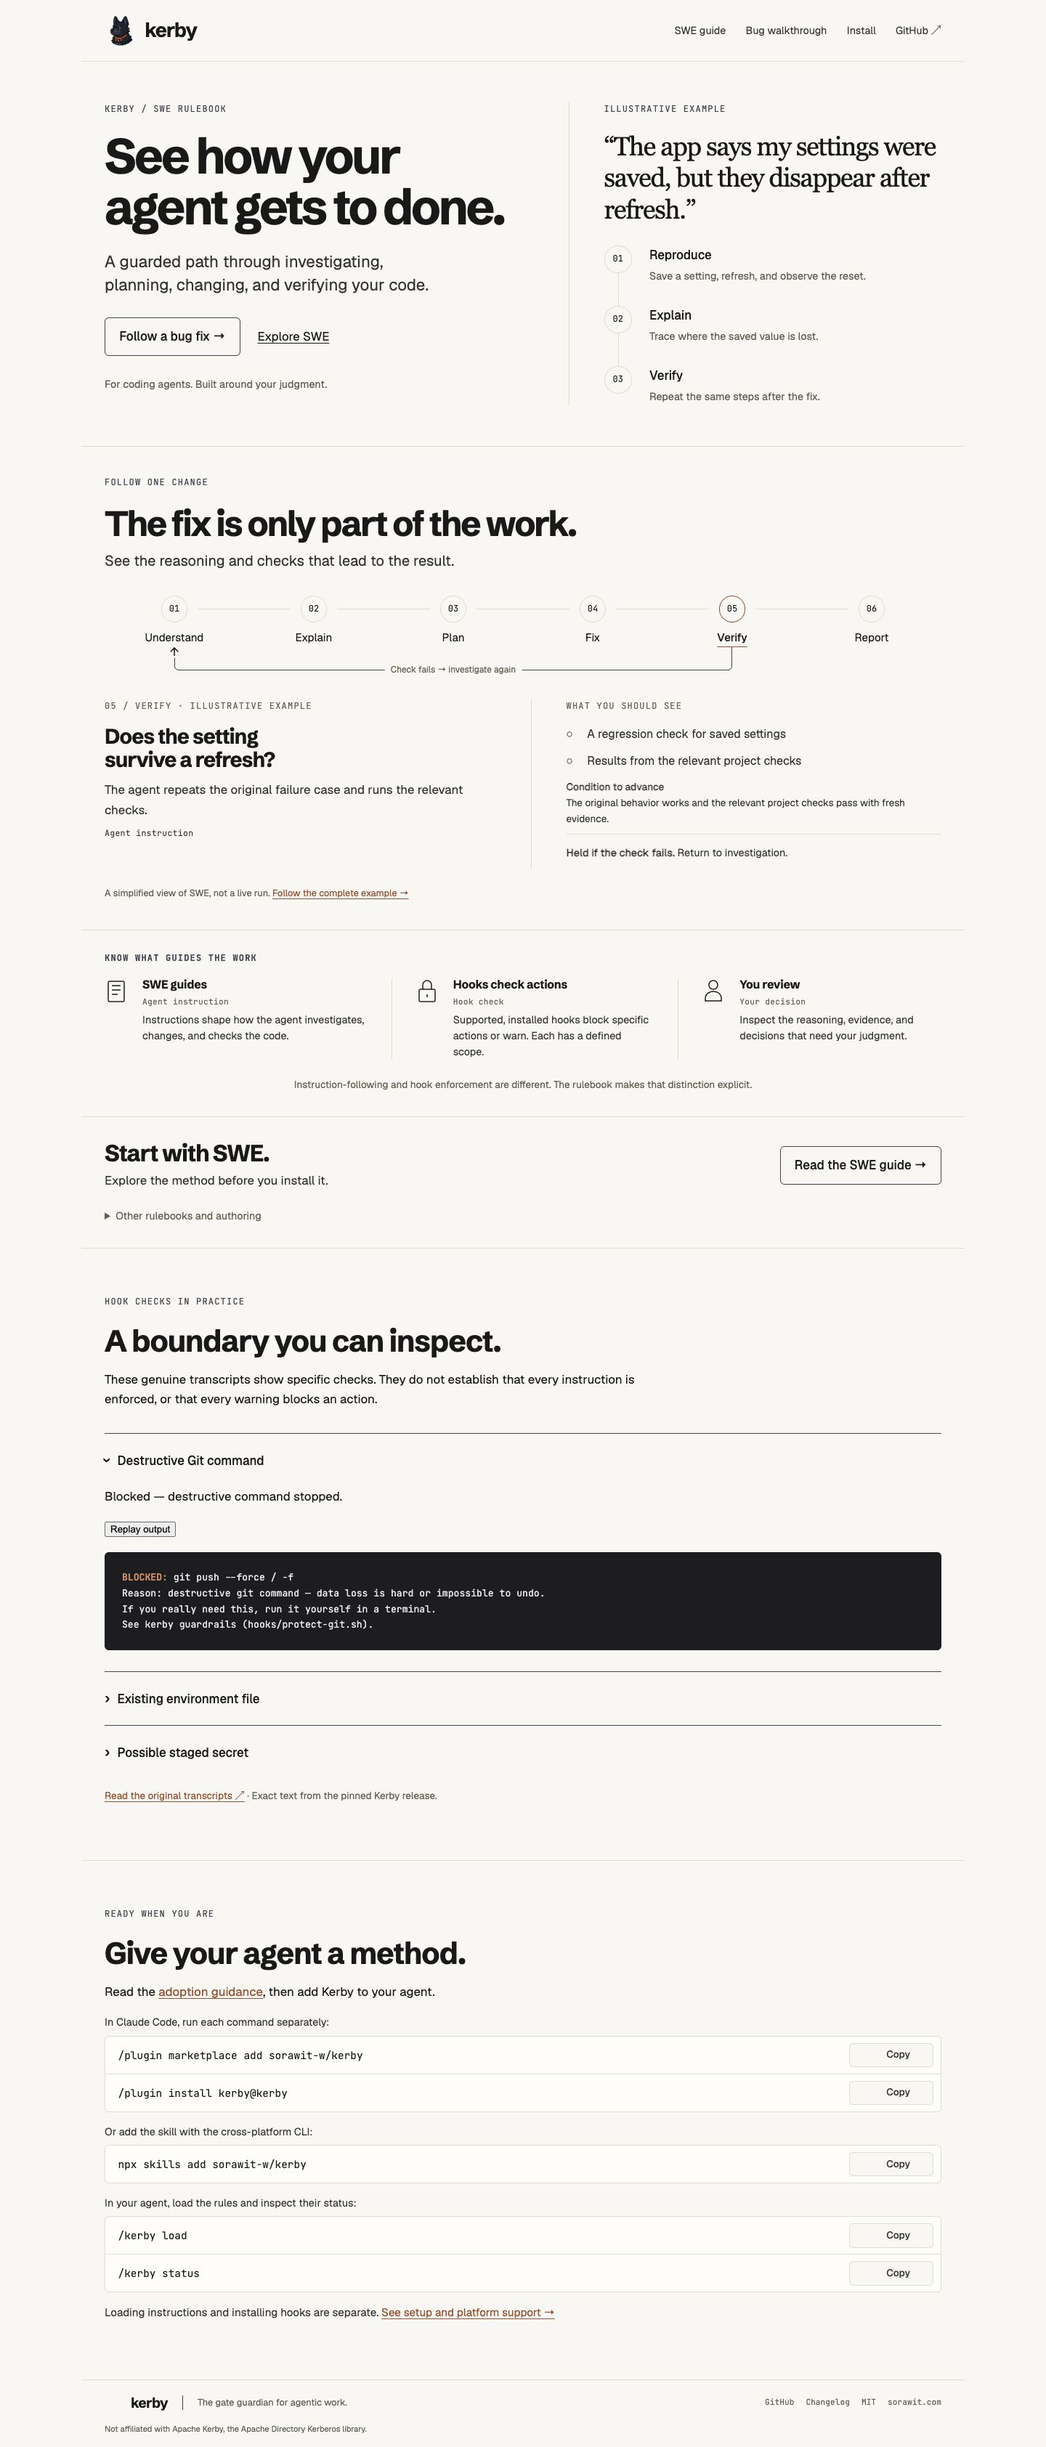
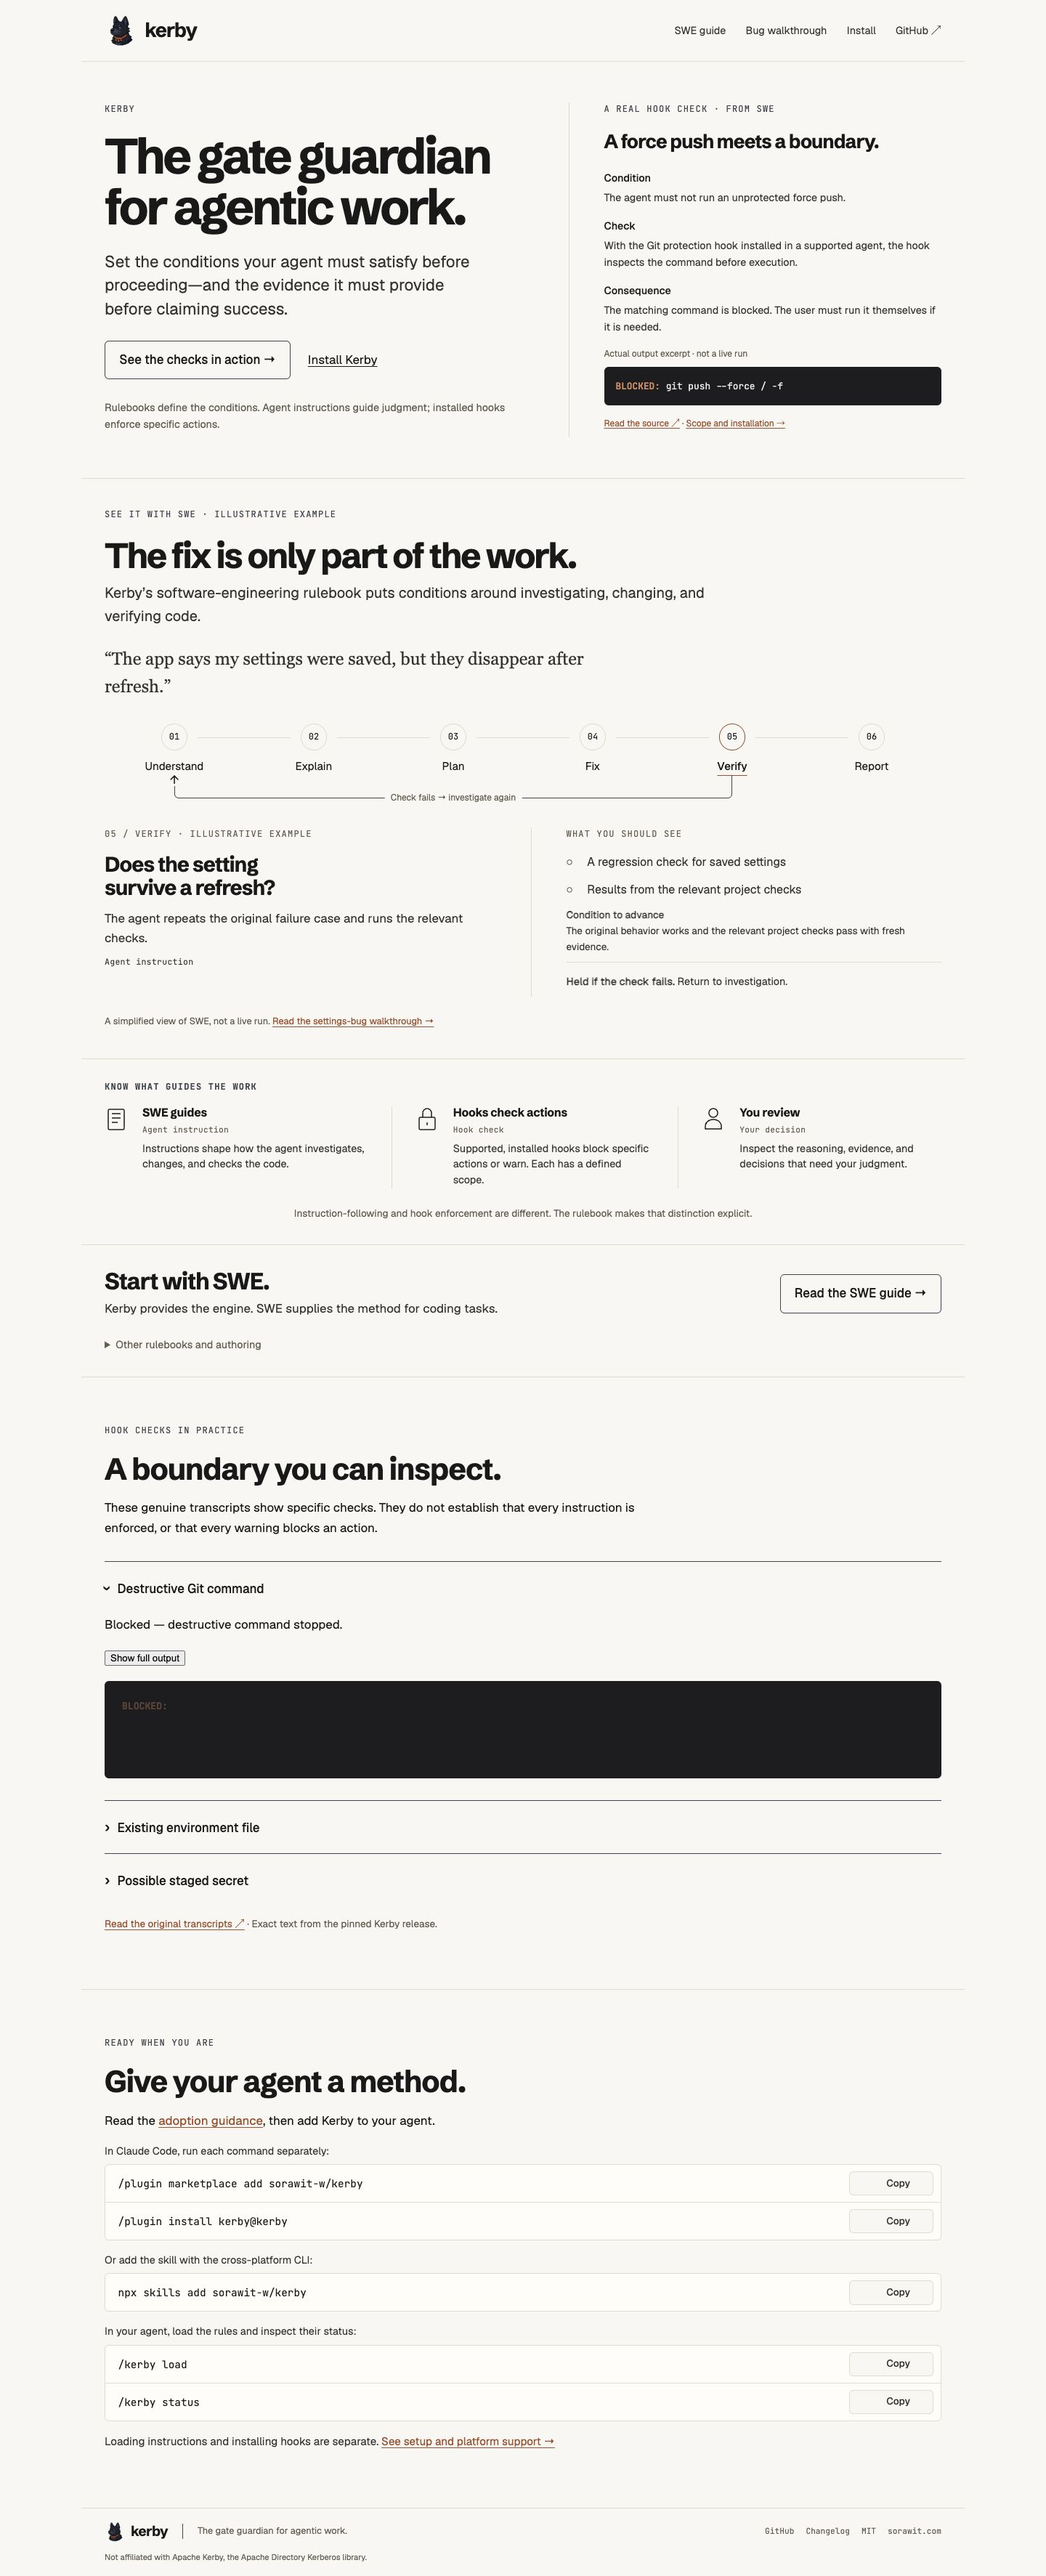
fix: lead with Kerby guardian identity and a concrete gate

diff --git a/src/data/transcripts.ts b/src/data/transcripts.ts
@@ -1,0 +1,17 @@
+// Exact README transcripts; check:copy validates these against the pinned source.
+export const TRANSCRIPTS = [
+  `BLOCKED: git push --force / -f
+Reason: destructive git command — data loss is hard or impossible to undo.
+If you really need this, run it yourself in a terminal.
+See kerby guardrails (hooks/protect-git.sh).`,
+  `BLOCKED: '.env' already exists — replacing it would overwrite its current contents.
+Env files are the one class git cannot restore — a real .env is gitignored, so an
+overwrite has no undo. Hand the required variables to the user to add themselves:
+  <VAR>=<value>
+Placeholders belong in .env.example / .env.template / .env.sample — a regular file,
+named absolutely, which is neither a symlink nor a hard link to another file.
+See kerby guardrails (references/guardrails.md § Environment Files).`,
+  `WARNING: gitleaks detected possible secrets in staged changes.
+Output suppressed so the secret isn't echoed here — inspect locally with
+'gitleaks stdin --redact', or allowlist a false positive in the scanner's config.`,
+];

diff --git a/DESIGN.md b/DESIGN.md
@@ -67,9 +67,9 @@ file on purpose, never a downstream consumer.
 
 ## Overview
 
-The homepage introduces Kerby as the rulebook engine, with SWE as its featured software-engineering rulebook. The SWE guides explain a guarded path to completion. A reader should understand how their agent works differently, what permits advancement, who checks a condition, and what happens when it is unmet. The current head-and-neck pixel mascot remains the guardian identity; the interface explains the conditions.
+The homepage introduces Kerby as the gate guardian for agentic work. Rulebooks provide the conditions; SWE is the featured software-engineering example. The SWE guides explain a guarded path to completion. A reader should understand how their agent works differently, what permits advancement, who checks a condition, and what happens when it is unmet. The current head-and-neck pixel mascot remains the guardian identity; the interface explains the conditions.
 
-The supplied homepage mockup governs the compact composition: a split hero with an editorial quote and three-step preview, a connected six-stage path with a verification detail, compact icon-led responsibilities, and a single-row portrait footer. Required transcript and installation sections continue below this core narrative.
+The supplied homepage mockup governs the compact composition: a split hero with the guardian identity and a genuine hook check explained through condition, check, and consequence, a connected six-stage path with a verification detail, compact icon-led responsibilities, and a single-row portrait footer. Required transcript and installation sections continue below this core narrative.
 
 The approved redesign replaces the previous transcript-first single-column design. The homepage labels the illustrative settings bug and six-stage path as SWE examples; all guide pages use the same responsibility and checkpoint language.
 

diff --git a/docs/redesign-review.md b/docs/redesign-review.md
@@ -72,3 +72,9 @@ The full check suite passes. Browser checks verified keyboard disclosure state, 
 Rebuilt the homepage around the user's supplied reference: split hero, editorial scenario quote, connected six-stage path with a return branch, verification detail, compact responsibility columns, and a small SWE call to action. The shared footer is now one compact desktop row with the original portrait, tagline, and links; mobile stacks the links below the identity. Required source transcripts, installation commands, and secondary rulebook information remain available.
 
 Refreshed the homepage desktop, hero, and mobile screenshots. Guide screenshots above predate this shared header/footer refinement. Production-browser review covered desktop and mobile homepage composition, the shared footer on the SWE overview, and overflow checks at 320px, 375px, and 768px. Full `bun run check` passes, including pinned source validation and transcript fidelity.
+
+## Guardian positioning
+
+The homepage now leads with Kerby's repository-defined identity: “The gate guardian for agentic work.” A genuine SWE force-push refusal explains condition, check, and consequence alongside the hero. Its output excerpt shares the same transcript data as the existing source-validated consoles. The illustrative settings-bug narrative follows as “See it with SWE”; rulebooks remain the mechanism rather than the headline benefit.
+
+Updated homepage metadata and design guidance. Full checks pass with pinned-source validation executed; production screenshots reviewed at 1440px and 375px, with no mobile page overflow. Refreshed homepage screenshots accompany this revision.
